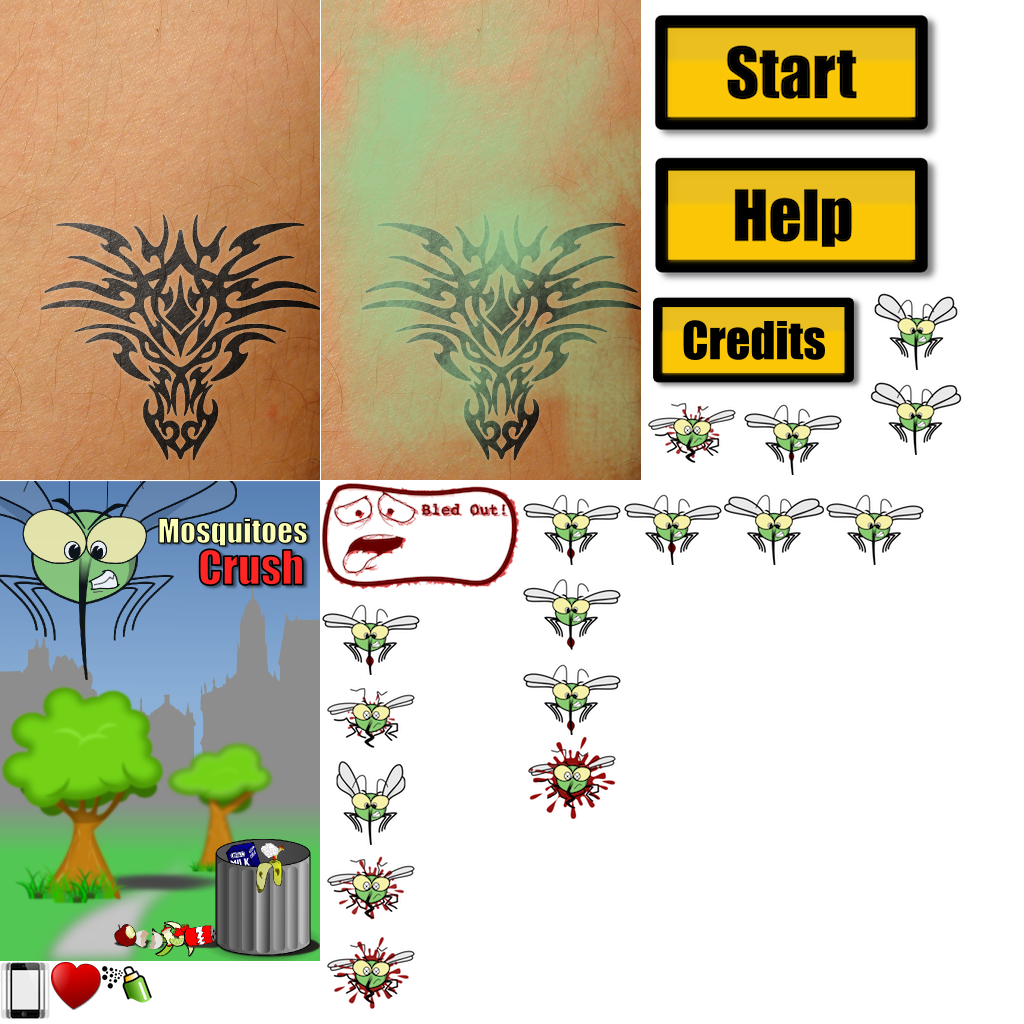
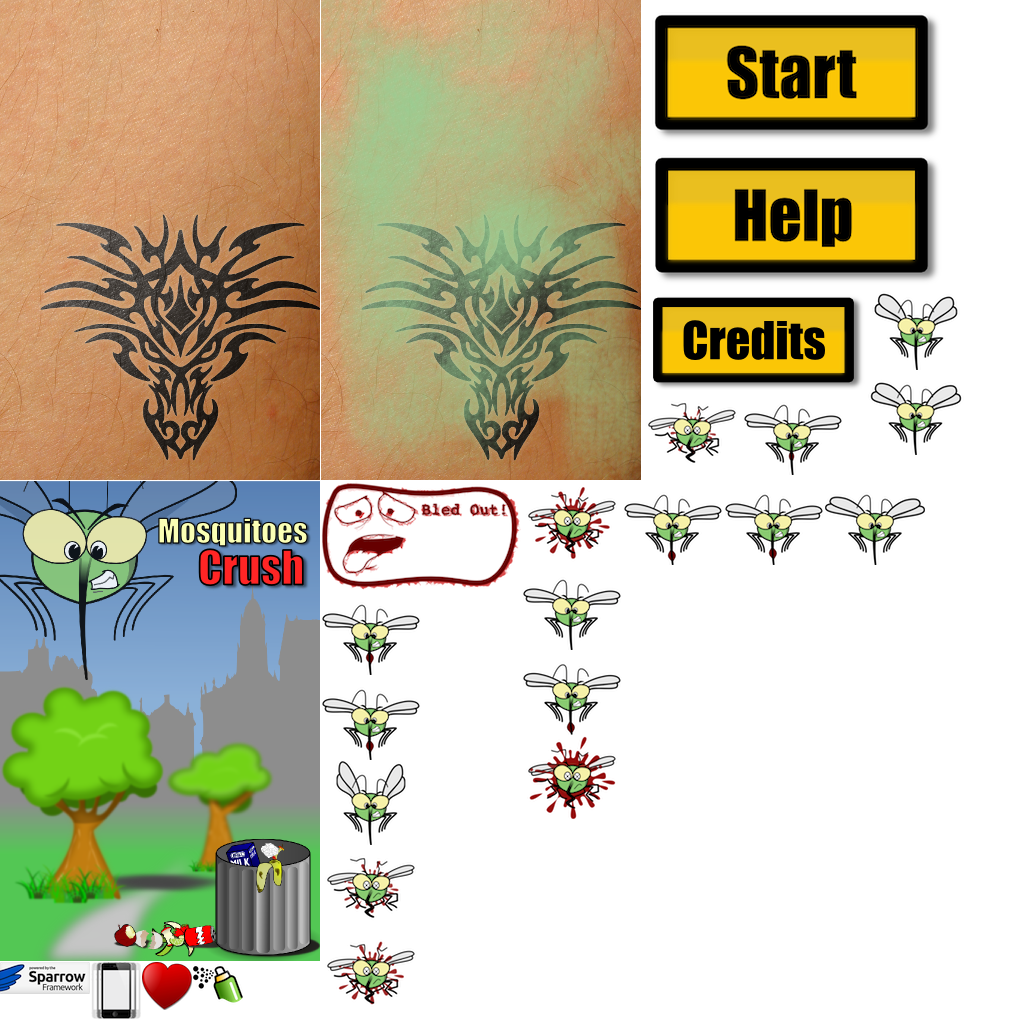
small adjustments

diff --git a/Classes/MainMenu.m b/Classes/MainMenu.m
@@ -60,6 +60,12 @@
         HScoreTF.fontSize = 18;
         HScoreTF.kerning = YES;
         [self addChild:HScoreTF];
+        
+        SPImage* sparrow = [SPImage imageWithTexture:[Game texture:@"sparrow"]];
+        sparrow.x = 1;
+        sparrow.y = self.height - 40;
+        sparrow.alpha = 0.7;
+        [self addChild:sparrow];
     
         [self createButtons];
         [self resetButtons];
@@ -207,7 +213,7 @@
 
 -(void)startMarathon {
     for (int i =0; i < 7; i++) {
-        [mPlayground launchMosquitoAtX:arc4random()%(int)(self.width-90) + 15 Y:arc4random()%(int)(self.height-100)+37 FlyProb:0.75 Life:1 Power:3];
+        [mPlayground launchMosquitoAtX:arc4random()%(int)(self.width-90) + 15 Y:arc4random()%(int)(self.height-100)+37 FlyProb:0.75 Life:1 Power:1 Worth:1.5];
     }
     kills = 0;
     [mPlayground addEventListener:@selector(killit:) atObject:self forType:EVENT_TYPE_MOSQUITO_TOUCHED];
@@ -215,19 +221,19 @@
 
 -(void)killit:(MosquitoTouchEvent *)event {
     kills += event.mosquito.worth;
-    if (kills >= 3) {
+    if (kills >= 4) {
         double prob = arc4random()%1000/1000.0;
         if (prob <= 0.5) {
             for (int i =0; i < 4; i++) {
-                [[mInGameJuggler delayInvocationAtTarget:mPlayground byTime:0.5*i] launchMosquitoAtX:arc4random()%(int)(self.width-90)+15 Y:arc4random()%(int)(self.height-100)+37 FlyProb:0.75 Life:1 Power:3];
+                [[mInGameJuggler delayInvocationAtTarget:mPlayground byTime:0.5*i] launchMosquitoAtX:arc4random()%(int)(self.width-90)+15 Y:arc4random()%(int)(self.height-100)+37 FlyProb:0.75 Life:1 Power:1 Worth:1.5];
             }
         } else if (prob <= 0.85) {
             for (int i =0; i < 3; i++) {
-                [[mInGameJuggler delayInvocationAtTarget:mPlayground byTime:0.7*i] launchMosquitoAtX:arc4random()%(int)(self.width-90)+15 Y:arc4random()%(int)(self.height-100)+37 FlyProb:0.65 Life:2 Power:2];
+                [[mInGameJuggler delayInvocationAtTarget:mPlayground byTime:0.7*i] launchMosquitoAtX:arc4random()%(int)(self.width-90)+15 Y:arc4random()%(int)(self.height-100)+37 FlyProb:0.65 Life:2 Power:2 Worth:3];
             }
         } else {
             for (int i =0; i < 2; i++) {
-                [[mInGameJuggler delayInvocationAtTarget:mPlayground byTime:1*i] launchMosquitoAtX:arc4random()%(int)(self.width-90)+15 Y:arc4random()%(int)(self.height-100)+37 FlyProb:0.50 Life:3 Power:3];
+                [[mInGameJuggler delayInvocationAtTarget:mPlayground byTime:1*i] launchMosquitoAtX:arc4random()%(int)(self.width-90)+15 Y:arc4random()%(int)(self.height-100)+37 FlyProb:0.50 Life:3 Power:3 Worth:5.3];
             }
         }
         kills = 0;

diff --git a/Classes/Playground.m b/Classes/Playground.m
@@ -61,7 +61,7 @@
         bckImg = [SPImage imageWithTexture:[Game texture:@"gamebg"]];
         [self addChild:bckImg];
         
-        points = [[NumberField alloc] initWithText:@"Kills: "];
+        points = [[NumberField alloc] initWithText:@"Points: "];
         points.value = 0;
         points.fontName = [Game fontMF];
         points.color = 0x33cc66;
@@ -110,6 +110,7 @@
         comboTF.alpha = 0;
         comboTF.kerning = YES;
         [self addChild:comboTF];
+        comboTF.width = 150;
         
         statsHeight = 20;
         
@@ -128,7 +129,7 @@
     [mJuggler addObject:tween];
 }
 
--(void) launchMosquitoAtX:(double) x Y:(double) y FlyProb:(double) fp Life:(double) lif Power:(double) pow {
+-(void) launchMosquitoAtX:(double) x Y:(double) y FlyProb:(double) fp Life:(double) lif Power:(double) pow Worth:(double) worth {
     MosquitoSprite* m = [[MosquitoSprite alloc] initWithWidth:60 andHeight:48 speed:150.0 xvariance:50 yvariance:40 flyprob:fp life:lif power:pow worth:lif maxW:self.width maxH:self.height maxDisp:100.0 statsH:statsHeight];
     [m addEventListener:@selector(killit:) atObject:self forType:EVENT_TYPE_MOSQUITO_TOUCHED];
     [m addEventListener:@selector(sucked:) atObject:self forType:EVENT_TYPE_MOSQUITO_SUCKED];

diff --git a/Classes/MosquitoSprite.h b/Classes/MosquitoSprite.h
@@ -23,7 +23,7 @@
     BOOL flying;
     int life;
     int power;
-    int worth;
+    double worth;
     SPMovieClip* flyClip;
     SPMovieClip* suckClip;
     SPMovieClip* splashClip;
@@ -33,7 +33,7 @@
     float statsHeight;
 }
 
-@property (nonatomic, assign) int worth;
+@property (nonatomic, assign) double worth;
 @property (nonatomic, assign) double mWidth;
 @property (nonatomic, assign) double mHeight;
 -(void) advanceTime:(double) seconds;

diff --git a/Classes/Playground.h b/Classes/Playground.h
@@ -44,7 +44,7 @@
 
 -(void) killit:(SPTouchEvent*) event;
 
--(void) launchMosquitoAtX:(double) x Y:(double) y FlyProb:(double) fp Life:(double) lif Power:(double) pow;
+-(void) launchMosquitoAtX:(double) x Y:(double) y FlyProb:(double) fp Life:(double) lif Power:(double) pow  Worth:(double) worth;
 
 -(void) stopGame;
 

diff --git a/Classes/GameOver.m b/Classes/GameOver.m
@@ -30,7 +30,7 @@
         img.height = h;
         [self addChild:img];
     
-        SPTextField* points = [SPTextField textFieldWithText:@"score:"];
+        SPTextField* points = [SPTextField textFieldWithText:@"points:"];
         points.x = 90;
         points.y = 10;
         points.fontName = [Game fontATWR];

diff --git a/Classes/GameOver.h b/Classes/GameOver.h
@@ -12,7 +12,7 @@
     SPJuggler* mJuggler;
 }
 
-@property (nonatomic, assign) double TOTAL;
+@property (nonatomic, assign) int TOTAL;
 
 - (id)initWithWidth:(double) w height:(double) h points:(int) p hits:(int) hits misses:(int) miss longestCombo:(int) lc;
 -(void) advanceTime:(double) seconds;
